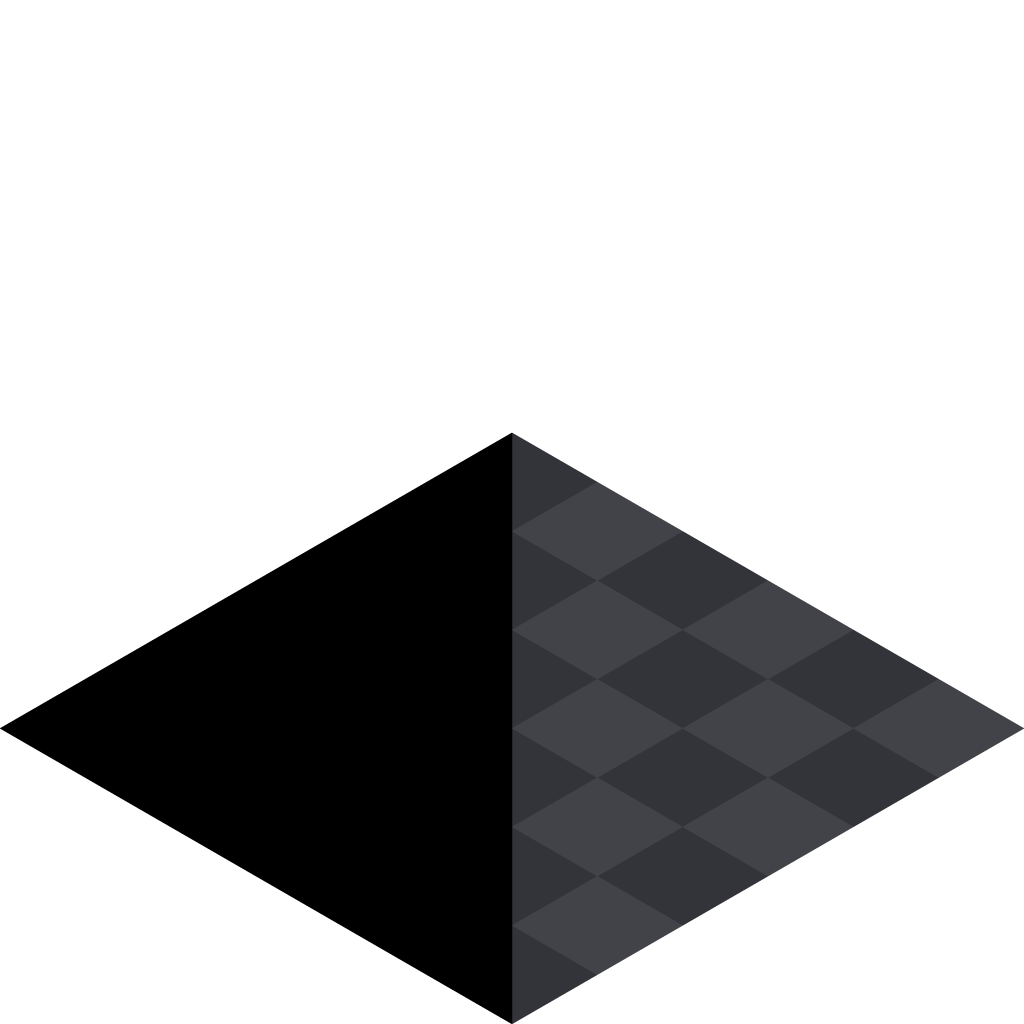
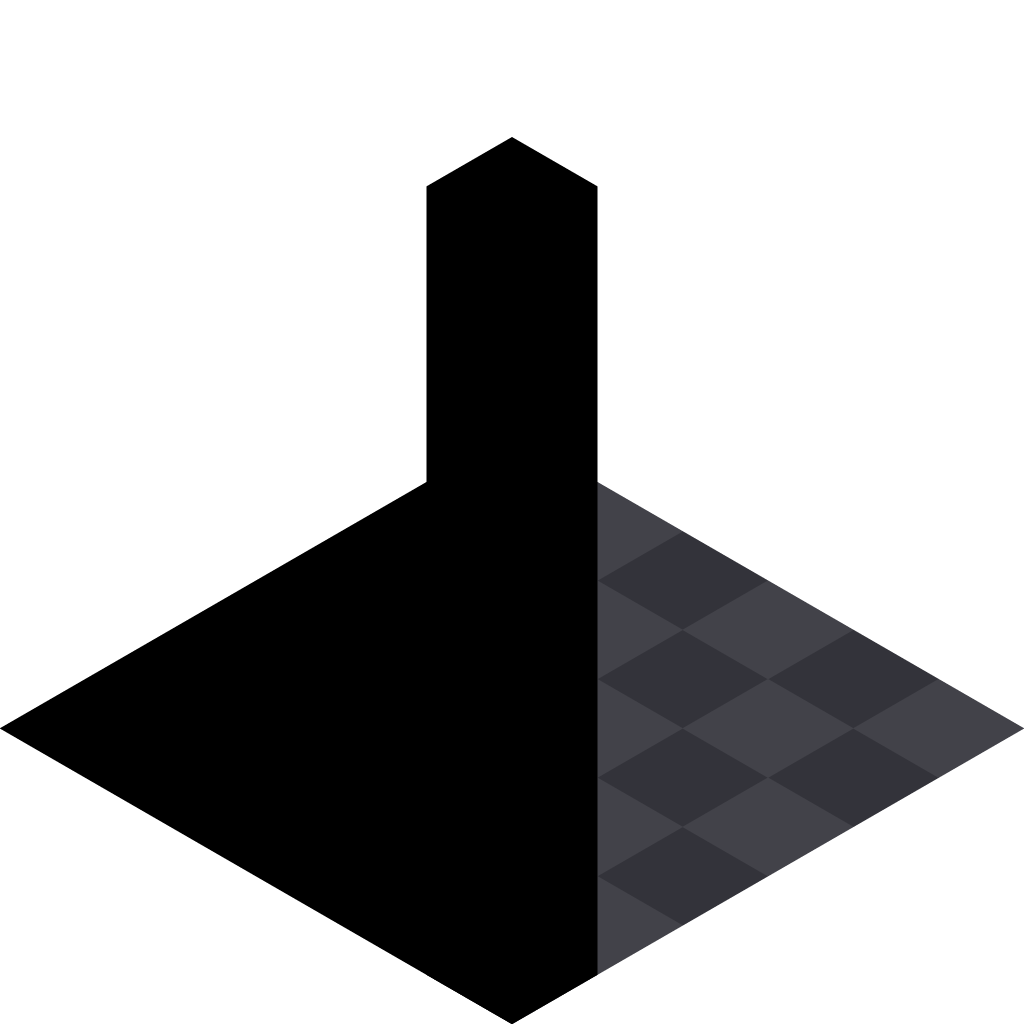
edit tiles

Changed region(s): [[0.4062, 0.125, 0.5938, 1.0]]

diff --git a/index.html b/index.html
@@ -268,8 +268,8 @@ const tiles = [
   { id:18, name:"Square Pillar Alt",   mask:["000","000","001"] },
   { id:19, name:"Vertical Left",       mask:["100","110","111"] },
   { id:20, name:"Vertical Right",      mask:["111","011","001"] },
-  { id:21, name:"Floor Left",          mask:["100","110","111"] },
-  { id:22, name:"Floor Right",         mask:["111","011","001"] }
+  { id:21, name:"Vertical Left Black", mask:["100","110","111"] },
+  { id:22, name:"Vertical Right Black",mask:["111","011","001"] }
 ];
 
 const tileOptions = [{ id:-2, name:"None" }, ...tiles];
